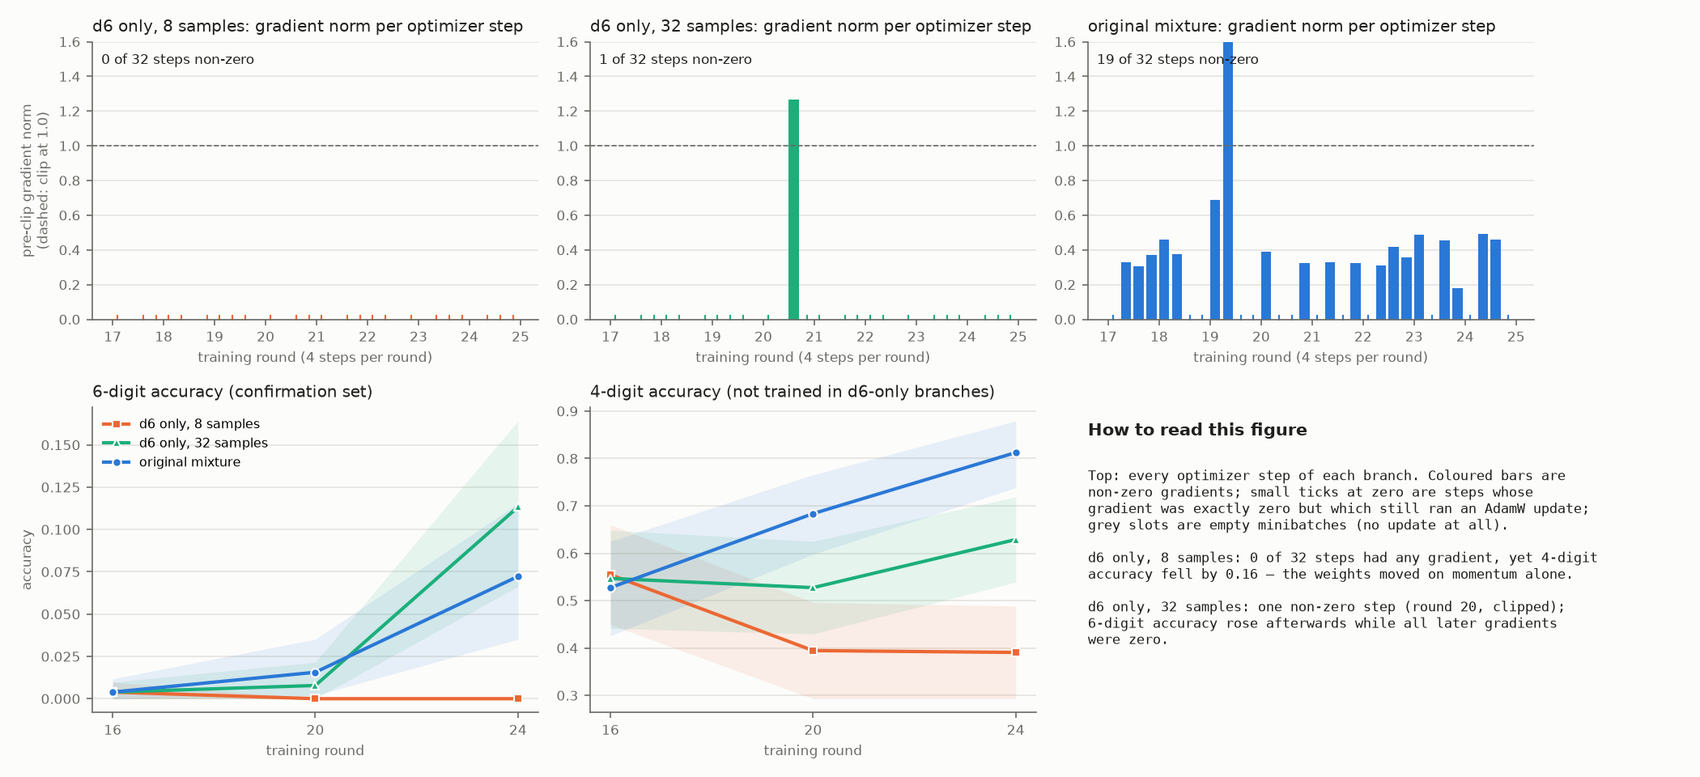
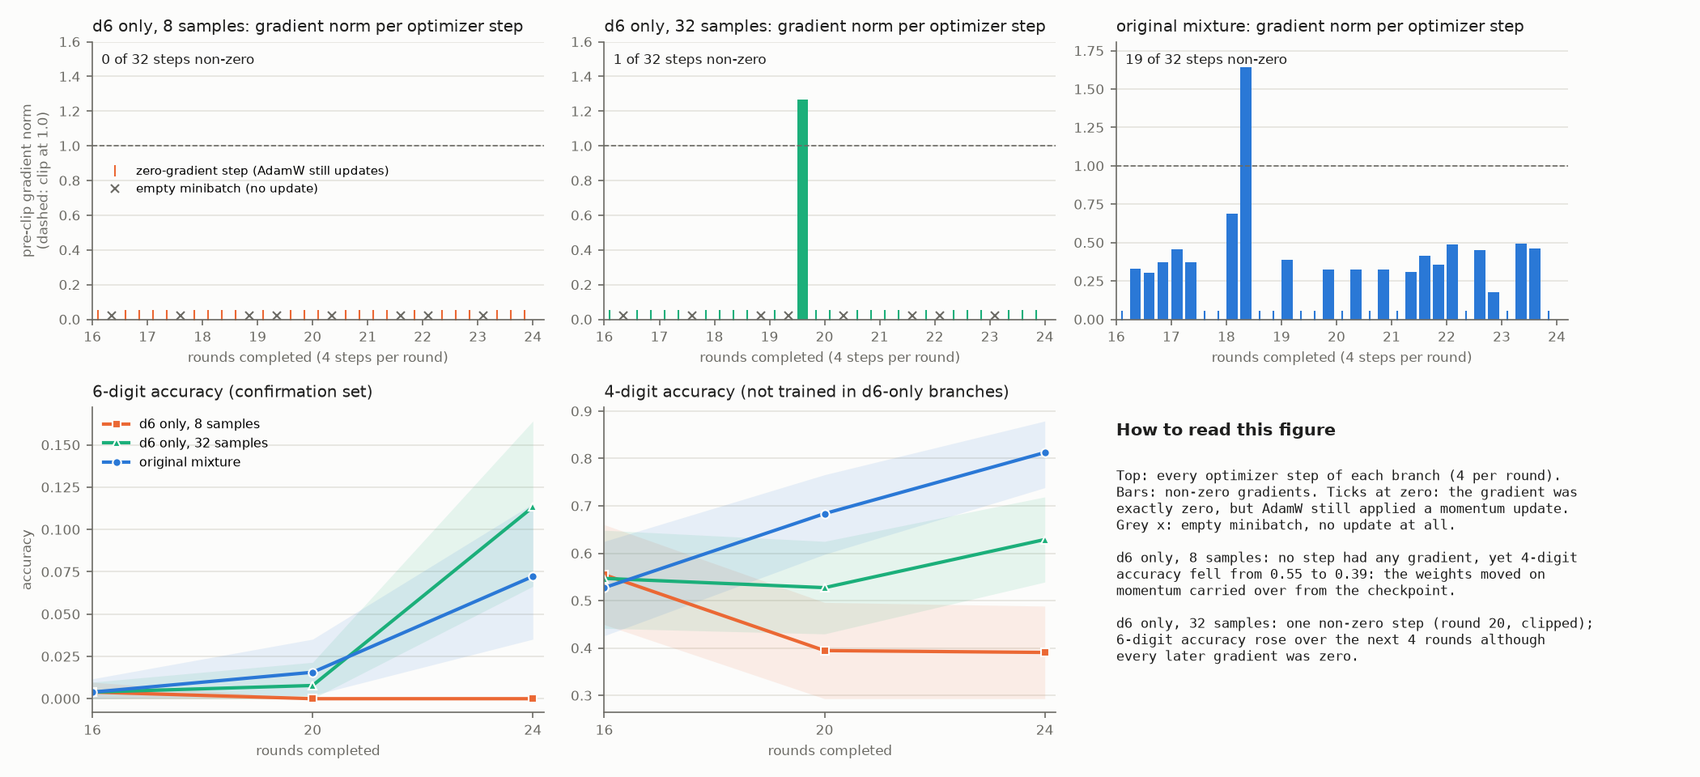
s02 report: address critique (optimizer effects, brevity unconfirmed, CI scope); new figures 3-5 and momentum branches (in progress)

diff --git a/reports/Nov-15-2026-02-vineeth-babel-slurm-interference-dynamics/build/figs_extra.py b/reports/Nov-15-2026-02-vineeth-babel-slurm-interference-dynamics/build/figs_extra.py
@@ -126,6 +126,7 @@ def fig_step_sharing(res, out):
     ax.legend(frameon=False, fontsize=7, loc="upper right")
     # (c) lag over training: colour = condition (as in b), marker = shift, direct labels at round 32
     ax = axes[2]; style(ax); ax.axhline(0, color=MUTED, linewidth=1)
+    ends = []
     for E, col, lab in ((J, SLOTS[0], "with MBPP"), (H, MUTED, "half learning rate")):
         for st, mk in (("s4", "o"), ("s8", "s"), ("s12", "^")):
             e1, e2 = RC[f"caesar_{st}_sel"], E[f"caesar_{st}_sel"]
@@ -133,8 +134,12 @@ def fig_step_sharing(res, out):
             D = [paired_D(e1[r], e2[r])[0] for r in rs]
             ax.plot(rs, D, color=col, marker=mk, markersize=5, linewidth=1.8, markeredgecolor=SURFACE,
                     label=lab if st == "s4" else None)
-            ax.annotate(f"shift {st[1:]}", (rs[-1], D[-1]), xytext=(5, 0), textcoords="offset points", fontsize=7,
-                        color=INK, va="center")
+            ends.append([D[-1], rs[-1], f"shift {st[1:]}"])
+    ends.sort()
+    for n in range(1, len(ends)):
+        ends[n][0] = max(ends[n][0], ends[n - 1][0] + 0.025)
+    for y, x0, t in ends:
+        ax.annotate(t, (x0, y), xytext=(5, 0), textcoords="offset points", fontsize=7, color=INK, va="center")
     ax.set_xlim(-1, 38)
     ax.set_title("(c) Accuracy lost relative to Caesar alone at full rate\n(markers: circle 4, square 8, triangle 12)",
                  fontsize=9.5, color=INK, loc="left")
@@ -213,18 +218,23 @@ def fig_momentum_branches(res, out):
         E, R, S = load(res, expid)
         ax = fig.add_subplot(gs[0, j]); style(ax)
         steps = sorted(S)
-        x = [S[s]["round"] + 1 + S[s]["minibatch"] / 4 for s in steps]           # round (1-based) + minibatch fraction
+        # rounds are 0-based in step records; round index r spans [r, r+1) so the eval "after N rounds" sits at x = N
+        x = [S[s]["round"] + S[s]["minibatch"] / 4 for s in steps]
         g = [S[s]["grad_norm_preclip"] for s in steps]
         empty = [S[s]["responses"] == 0 for s in steps]
-        ax.bar(x, g, width=0.2, color=[GRID if e else SLOTS[slot] for e in empty], align="edge")
-        for xi, gi, e in zip(x, g, empty):
-            if gi == 0 and not e:
-                ax.plot(xi + 0.1, 0, marker="|", color=SLOTS[slot], markersize=6)
-        ax.set_ylim(0, 1.6); ax.axhline(1.0, color=MUTED, linewidth=0.8, linestyle="--")
+        ax.bar([xi for xi, e in zip(x, empty) if not e], [gi for gi, e in zip(g, empty) if not e], width=0.2,
+               color=SLOTS[slot], align="edge")
+        ax.plot([xi + 0.1 for xi, e, gi in zip(x, empty, g) if not e and gi == 0], [0.02] * sum(1 for e, gi in zip(empty, g) if not e and gi == 0),
+                linestyle="none", marker="|", color=SLOTS[slot], markersize=7, label="zero-gradient step (AdamW still updates)")
+        ax.plot([xi + 0.1 for xi, e in zip(x, empty) if e], [0.02] * sum(empty), linestyle="none", marker="x",
+                color=MUTED, markersize=5, label="empty minibatch (no update)")
+        ax.set_ylim(0, max(1.6, max(g) * 1.1)); ax.axhline(1.0, color=MUTED, linewidth=0.8, linestyle="--")
+        ax.set_xlim(16, 24.2); ax.set_xticks(range(16, 25))
         ax.set_title(f"{name}: gradient norm per optimizer step", fontsize=9.5, color=INK, loc="left")
-        ax.set_xlabel("training round (4 steps per round)", fontsize=8, color=MUTED)
+        ax.set_xlabel("rounds completed (4 steps per round)", fontsize=8, color=MUTED)
         if j == 0:
             ax.set_ylabel("pre-clip gradient norm\n(dashed: clip at 1.0)", fontsize=8, color=MUTED)
+            ax.legend(frameon=False, fontsize=7, loc="center left")
         nz = sum(1 for v in g if v > 0)
         ax.text(0.02, 0.92, f"{nz} of {len(g)} steps non-zero", transform=ax.transAxes, fontsize=8, color=INK)
     for k, (panel, title) in enumerate((("add9_d6_conf", "6-digit accuracy (confirmation set)"),
@@ -232,22 +242,23 @@ def fig_momentum_branches(res, out):
         ax = fig.add_subplot(gs[1, k]); style(ax)
         for name, slot, expid in br:
             curve(ax, load(res, expid)[0], panel, slot, label=name, band=True)
-        ax.set_title(title, fontsize=9.5, color=INK, loc="left"); ax.set_xlabel("training round", fontsize=8, color=MUTED)
-        ax.set_xticks([16, 20, 24])
+        ax.set_title(title, fontsize=9.5, color=INK, loc="left"); ax.set_xlabel("rounds completed", fontsize=8, color=MUTED)
+        ax.set_xticks([16, 20, 24]); ax.set_xlim(16, 24.2)
         if k == 0:
             ax.set_ylabel("accuracy", fontsize=8, color=MUTED); ax.legend(frameon=False, fontsize=7.5, loc="upper left")
     ax = fig.add_subplot(gs[1, 2]); ax.axis("off")
     ax.text(0, 0.95, "How to read this figure", fontsize=10, color=INK, weight="bold", va="top")
     ax.text(0, 0.80,
-            "Top: every optimizer step of each branch. Coloured bars are\n"
-            "non-zero gradients; small ticks at zero are steps whose\n"
-            "gradient was exactly zero but which still ran an AdamW update;\n"
-            "grey slots are empty minibatches (no update at all).\n\n"
-            "d6 only, 8 samples: 0 of 32 steps had any gradient, yet 4-digit\n"
-            "accuracy fell by 0.16 — the weights moved on momentum alone.\n\n"
+            "Top: every optimizer step of each branch (4 per round).\n"
+            "Bars: non-zero gradients. Ticks at zero: the gradient was\n"
+            "exactly zero, but AdamW still applied a momentum update.\n"
+            "Grey x: empty minibatch, no update at all.\n\n"
+            "d6 only, 8 samples: no step had any gradient, yet 4-digit\n"
+            "accuracy fell from 0.55 to 0.39: the weights moved on\n"
+            "momentum carried over from the checkpoint.\n\n"
             "d6 only, 32 samples: one non-zero step (round 20, clipped);\n"
-            "6-digit accuracy rose afterwards while all later gradients\n"
-            "were zero.", fontsize=8, color=INK, va="top", family="monospace")
+            "6-digit accuracy rose over the next 4 rounds although\n"
+            "every later gradient was zero.", fontsize=8, color=INK, va="top", family="monospace")
     fig.tight_layout()
     fig.savefig(os.path.join(out, "momentum_branches.png"), dpi=150, facecolor=SURFACE)
     plt.close(fig)

diff --git a/reports/Nov-15-2026-02-vineeth-babel-slurm-interference-dynamics/report.md b/reports/Nov-15-2026-02-vineeth-babel-slurm-interference-dynamics/report.md
@@ -13,8 +13,9 @@ less often also receives less learning signal?
 Three results stand out. First, interference followed behaviour rather than domain. A task that rewards short
 answers delayed the harder Caesar problems in two of three seeds, and in each of those seeds Caesar answers became
 shorter during the delay. Training on one task also often damaged an untrained behaviour, here the terse format.
-Second, an apparent cross-domain lag (Caesar trained with MBPP) was fully explained by the optimizer giving each
-task a smaller share of every update, not by interference. Third, within base-9 addition, the medium-difficulty
+Second, a cross-domain lag (Caesar trained with MBPP) cannot be attributed to interference: a Caesar-only run at
+half the learning rate showed that Caesar learning is highly sensitive to step size, which makes optimizer effects a
+credible alternative explanation. Third, within base-9 addition, the medium-difficulty
 problems sometimes collapsed to near-zero accuracy during training (2 of 5 seeds). Once every training sample on
 those problems was wrong, GRPO produced no gradient for them and the skill stayed collapsed; a single rare correct
 sample, or transfer from easier problems, was enough to restart learning. This confirms the persistence step of the
@@ -115,6 +116,13 @@ two runs, which removes variation due to problem difficulty. Evaluations of the 
 differed by up to 0.04 because the inference engine's sampling is not bit-reproducible. Effects of 0.15 or more are
 therefore well above evaluation noise, while effects near 0.07 are only about twice it.
 
+These intervals have a limited meaning, and it matters throughout the results. They describe uncertainty over the
+evaluation problems within a single training run. They say nothing about how much the result would change if the
+whole training run were repeated with a different seed, and that between-run variation can be large: the
+within-task collapse of Section 3.4 occurred in two of five otherwise identical runs. An interval that excludes zero
+therefore shows that a difference is real for that pair of runs, not that it would replicate. Only replication
+across training seeds addresses that, and we state the number of seeds behind each claim.
+
 Results that changed the direction of the study were re-examined by an independent reviewer, who recomputed the
 numbers from raw metrics and actively looked for alternative explanations. This review corrected one of our
 conclusions (Section 3.4). A separate audit recomputed a sample of 18 reported numbers and found no discrepancies.
@@ -158,8 +166,8 @@ related tasks.
 ### 3.2 A behavioural objective can delay a skill that needs written working
 
 Our first joint pair trained Caesar decoding together with the terse task. Terse was learned within four rounds,
-rising from about 0.4 to above 0.9. After that almost all its prompt groups were all-correct, so it contributed
-little gradient for the rest of training. Nonetheless, Caesar learning was slowed on the harder shifts. Figure 2
+rising from about 0.4 to above 0.9. After that most of its prompt groups were all-correct, so it contributed much
+less gradient than an active task: about one group per round in seed 1, and fewer still in seeds 2 and 3. Nonetheless, Caesar learning was slowed on the harder shifts. Figure 2
 shows the gap to the single-task reference.
 
 ![Caesar gap in joint runs](figures/caesar_D.png)
@@ -172,12 +180,18 @@ In seeds 1 and 2, the joint run fell behind on shifts 8 and 12 by 0.11 to 0.18 a
 closed by round 24. In seed 2 it persisted on shift 8 until the end of training (0.12 at round 32). Seed 3 showed
 no delay at any point.
 
-A plausible mechanism emerged from the length of Caesar answers during training. In the two seeds with a delay, the
-joint run's Caesar answers were 5–12% shorter than the reference's during rounds 1–16. Caesar decoding benefits from
-writing out the shifted letters, so shorter answers plausibly mean worse answers. In seed 3, the joint run's answers
-were 6% longer, and there was no delay. The terse objective therefore appears to slow Caesar learning when, and only
-when, its preference for brevity spills over into Caesar answers. This is a correlation across three seeds. We did
-not test it by intervention, for example by loosening the terse length limit.
+A candidate mechanism emerged from the length of Caesar answers during training. In the two seeds with a delay,
+the joint run's Caesar answers were 5–12% shorter than the reference's during rounds 1–16. Caesar decoding benefits
+from writing out the shifted letters, so shorter answers plausibly mean worse answers. In seed 3, the joint run's
+answers were 6% longer, and there was no delay. This pattern makes brevity spill-over a promising explanation, but
+it is not confirmed. It is a correlation across three seeds, and we did not test it by intervention, for example by
+loosening the terse length limit.
+
+A second explanation cannot be excluded either. Although terse was nearly solved after the first few rounds, it never
+stopped producing gradient entirely. In rounds 1–8, 10 to 13 of its groups produced gradient. In later blocks of eight
+rounds, seed 1 still had 6 to 9 such groups per block, and seeds 2 and 3 had 0 to 5 (Figure 4a). Those updates changed the model, and they also changed Adam's running estimates of
+gradient direction and scale, which shape every later Caesar update. A delay could therefore arise from this
+optimizer history rather than from brevity specifically. The two explanations are not exclusive.
 
 During the delay, the joint runs also had fewer Caesar prompt groups with mixed outcomes, and more with all-wrong
 outcomes, than the references. In seed 1, for example, rounds 9–16 had 44 mixed groups against 51. This is the first
@@ -186,34 +200,72 @@ link of the proposed feedback loop. The effect was small, however, and in seed 1
 The pairing also protected terse. When terse was trained alongside Caesar, its accuracy stayed above 0.9, whereas
 Caesar training alone had driven it down.
 
-### 3.3 An apparent cross-domain conflict was explained by update sharing
+### 3.3 A cross-domain lag that optimizer effects may explain
 
-Our second pair crossed domains: Caesar decoding with Python programming. MBPP learned as fast as it did alone
-(gap 0.03, not significant). Caesar fell behind on all three shifts, by 0.09 to 0.12 at round 32 (Figure 2,
-orange), and had not caught up by the end of training. This looked like cross-domain interference.
+Our second pair crossed domains: Caesar decoding with Python programming. Figure 3 shows both tasks trained alone
+and together. MBPP learned at the same rate in both settings; its accuracy at round 32 was 0.69 with Caesar and 0.72
+alone, a difference well within the evaluation uncertainty. Caesar improved substantially in both settings, but
+the joint run fell behind on all three shifts, by 0.09 to 0.12 at round 32, and had not caught up by the end of
+training.
 
-Unlike terse, however, MBPP remained an active learner throughout training, contributing mixed groups in every
-block of rounds. Because Adam produces updates of roughly fixed size, the two tasks shared each update, and Caesar
-received a smaller effective step than when trained alone. To measure what this alone would do, we trained Caesar by
-itself at half the learning rate. Halving the step cost Caesar 0.14, 0.53 and 0.37 on the three shifts at round
-32, far more than the 0.09–0.12 lag in the joint run. Since a shared update leaves Caesar with an effective step
-between half and full size, the joint-run lag lies well within what update sharing alone predicts. We therefore do
-not attribute it to interference.
+![Caesar and MBPP alone and together](figures/caesar_mbpp_curves.png)
 
-This control has a broader implication. With Adam, a joint-run lag is not by itself evidence that one task harms
-another, because any active competitor reduces each task's share of the update. The Caesar-terse delay of Section
-3.2 survives this check, because terse contributed almost no gradient after the first few rounds.
+*Figure 3. Accuracy of MBPP (left) and of Caesar decoding at each shift, trained alone (orange) and together (blue).
+Grey dashed: Caesar trained alone at half the learning rate. Bands are 95% bootstrap intervals over the 64
+evaluation problems of each run; they do not capture variation across training seeds.*
+
+The lag could be interference, but there is a simpler alternative. MBPP remained an active learner throughout
+training: it produced gradient in 100 groups over 32 rounds, whereas terse produced 18 to 34 (Figure 4a).
+Adam scales each update by running estimates of gradient size, so when two tasks contribute gradient the update is
+spread across both, and Caesar's learning can slow without any conflict between the tasks. To gauge how sensitive
+Caesar is to such effects, we trained Caesar alone at half the learning rate.
+
+![Step-size sensitivity](figures/step_sharing.png)
+
+*Figure 4. (a) Cumulative number of competitor groups that produced gradient: MBPP stayed active throughout, while
+terse produced most of its gradient in the first rounds. (b) Caesar accuracy at round 32 when trained alone at the full learning rate, with MBPP, and
+alone at half the learning rate (95% intervals over evaluation problems). (c) Accuracy lost relative to Caesar trained
+alone at the full rate, over training.*
+
+Halving the learning rate cost Caesar 0.14, 0.53 and 0.37 at round 32 on the three shifts, far more than the joint
+run's lag (Figure 4b and c). This shows that Caesar learning is highly sensitive to the size of its updates, which
+makes optimizer effects a credible explanation for the joint-run lag. It does not show that the joint run is
+equivalent to some smaller Caesar-only learning rate. Adam changes the direction and the per-parameter scaling of
+updates, not just their overall size, so there is no general rule that places a shared update between half and full
+step. The lag is therefore unresolved: it may reflect interference, optimizer effects, or both. Separating them
+would need, for example, an optimizer that keeps separate moment estimates per task, or a joint run in which the
+competitor's gradient is measured and removed.
+
+The control has a broader implication. With Adam, a lag in joint training is not by itself evidence that one task
+harms another, because any active competitor also changes the optimizer's state. This caveat applies with less
+force to the Caesar-terse delay of Section 3.2, because terse contributed far less gradient than MBPP, but it does
+not vanish: terse kept producing some gradient, and its early updates shaped the optimizer's history.
 
 Two further pairs combined base-9 addition with a competitor: decimal addition, which shares surface form but uses
-a different carry rule, and the terse task. Neither harmed base-9 learning. In both joint runs the 4-digit accuracy
-tracked the reference within 0.06, and the 6-digit level reached 0.52–0.53, well above the single-task reference of
-the same seed, which suffered the collapse described next. The terse task again learned quickly and was protected.
+a different carry rule, and the terse task (Figure 5). Against the single-task reference with the same seed, we
+detected no harm: 4-digit accuracy stayed within 0.06 of the reference throughout. That reference, however,
+collapsed on 6-digit problems (Section 3.4), which makes it a poor comparison at that level. We therefore also
+compare with three other single-task seeds that did not collapse. Against them, both joint runs ended at or just below
+the range on 6-digit problems (0.52 and 0.53, against 0.54 to 0.68). On 4-digit problems the run with terse ended
+inside the range (0.82), and the run with decimal addition ended below it (0.75, against 0.82 to 0.86). With one
+seed per joint configuration, we cannot tell a small cost of joint training from ordinary variation between seeds.
+What the runs do show is that neither competitor caused a large or lasting deficit. The competitors themselves were
+learned. Terse rose from 0.40 to above 0.9 within four rounds. Decimal addition rose from 0.38 to between 0.56 and
+0.75 during training (0.61 at round 32), against 0.41 to 0.53 when it was not trained.
+
+![Base-9 addition with competitors](figures/add9_pairs.png)
+
+*Figure 5. Base-9 addition at each difficulty level, trained alone (grey band: range of three seeds that did not
+collapse; grey line: the collapsed seed 1) and together with decimal addition or terse (one seed each). Right: the
+competitor tasks, trained and untrained.*
+
 A related observation came from the Caesar-MBPP pair: there, terse accuracy rose from 0.40 to 0.68, although
-neither task trained it and Caesar alone had driven it down.
+neither task trained it and Caesar alone had driven it down (Section 3.1).
 
 Across the four pairs, then, interference did not follow domain. Two arithmetic tasks with conflicting carry rules
-coexisted without harm. A cross-domain pair produced a lag explained entirely by update sharing. The one delay
-that survived scrutiny came from a behavioural objective acting on a skill that needs written working.
+coexisted without a large or lasting deficit. A cross-domain pair produced a lag that optimizer effects may explain. The delay
+that is hardest to attribute to the optimizer came from a behavioural objective acting on a skill that needs
+written working, though even there the optimizer's history is a possible contributor.
 
 ### 3.4 A skill can collapse within a single task
 
@@ -300,10 +352,13 @@ matters for any analysis that treats rounds with all-equal groups as "null" upda
 
 **Interference between tasks.** We found transfer, independence and a temporary or lasting delay, but these did not
 follow the similarity of the tasks. Decimal and base-9 addition, which share surface form but follow conflicting
-carry rules, coexisted without harm. A pair from different domains, Caesar decoding and programming, produced a lag
-that a simple update-size control fully explained. The interaction that survived scrutiny involved a competing
-behavioural objective rather than a competing skill. Rewarding short answers slowed a skill that benefits from
-written working, in the seeds where the brevity preference reached that skill's answers. The single-task results
+carry rules, coexisted without a large or lasting deficit. A pair from different domains, Caesar decoding and
+programming, produced a lag that we cannot attribute to interference, because Caesar learning proved highly
+sensitive to step size and optimizer effects are a credible alternative. The clearest interaction involved a
+competing behavioural objective rather than a competing skill. Rewarding short answers slowed a skill that benefits
+from written working in two of three seeds, and in exactly those seeds the brevity preference reached that skill's
+answers. This explanation is promising but not confirmed; the competitor's earlier updates and their effect on the
+optimizer's state are an alternative we could not exclude. The single-task results
 point the same way. The largest side effects of training were on an untrained behaviour (the terse format), and
 they arose through stylistic habits: longer answers in one case, unboxed answers in another. These results caution
 against assuming that different domains conflict or that similar ones cooperate. They suggest that the relevant
@@ -321,27 +376,32 @@ learning, the deficit closed.
 
 **Practical implications.** Three follow from the results. First, in multi-task GRPO, behaviours that no task
 trains need monitoring, because style learned on one task spreads to others. Second, lags in joint training should
-be compared with an update-size control before they are attributed to interference. Third, a skill whose success
+be checked against optimizer effects before they are attributed to interference; a learning-rate control shows
+how sensitive the target is, although it cannot by itself establish equivalence with joint training. Third, a skill whose success
 rate has fallen to zero can be revived by increasing the number of samples per prompt or by training a related,
 easier variant alongside it.
 
 ## 5. Limitations
 
 All results are exploratory. Most single-run findings rest on one seed, and the multi-seed findings on three to
-five. The study used one model (Qwen3-1.7B), one learning rate, the Adam optimizer, and a small set of synthetic and
+five. The confidence intervals reported throughout describe uncertainty over evaluation problems within a run;
+they are not a substitute for replication across training seeds, which was limited. The study used one model (Qwen3-1.7B), one learning rate, the Adam optimizer, and a small set of synthetic and
 benchmark tasks. "No harm detected" means that the 95% interval included zero, typically within about ±0.08, not
 that harm is absent. The cause of the within-task collapse remains unidentified. The brevity explanation for the
-Caesar delay is a correlation across three seeds and was not tested by intervention. The recovery experiment uses
+Caesar delay is a correlation across three seeds and was not tested by intervention; effects of the competitor's
+earlier updates on the optimizer's state remain an alternative. The recovery experiment uses
 one collapse state, and it does not separate the number of samples from the size of the update. Finally, the
-update-size control was run for Caesar only, so it bounds the update-sharing explanation for that task but not for
-others.
+half-learning-rate control was run for Caesar only. It shows that Caesar learning is sensitive to step size, but it
+does not show that joint training is equivalent to any particular reduced step, so the Caesar-MBPP lag remains
+unresolved between interference and optimizer effects.
 
 ## 6. Conclusion
 
-In this setting, how tasks interact under GRPO depended on behaviour more than on domain. The one robust
-cross-task delay came from an objective that rewarded short answers acting on a skill that needs written working.
-The largest side effects of training appeared on behaviours that no task was training. An apparent cross-domain
-conflict disappeared once the optimizer's sharing of each update was taken into account. Within a single task, a
+In this setting, how tasks interact under GRPO depended on behaviour more than on domain. The clearest cross-task
+delay came from an objective that rewarded short answers acting on a skill that needs written working; it appeared in
+two of three seeds, and brevity spill-over is a promising but unconfirmed explanation. The largest side effects of
+training appeared on behaviours that no task was training. A cross-domain lag could not be attributed to
+interference, because the optimizer offers a credible alternative explanation. Within a single task, a
 skill could collapse, and once it produced no correct samples GRPO could not repair it; a single success, or
 transfer from a related skill, was enough to restart learning. The open questions are what triggers such collapses,
 and whether the brevity effect can be confirmed by direct intervention.
